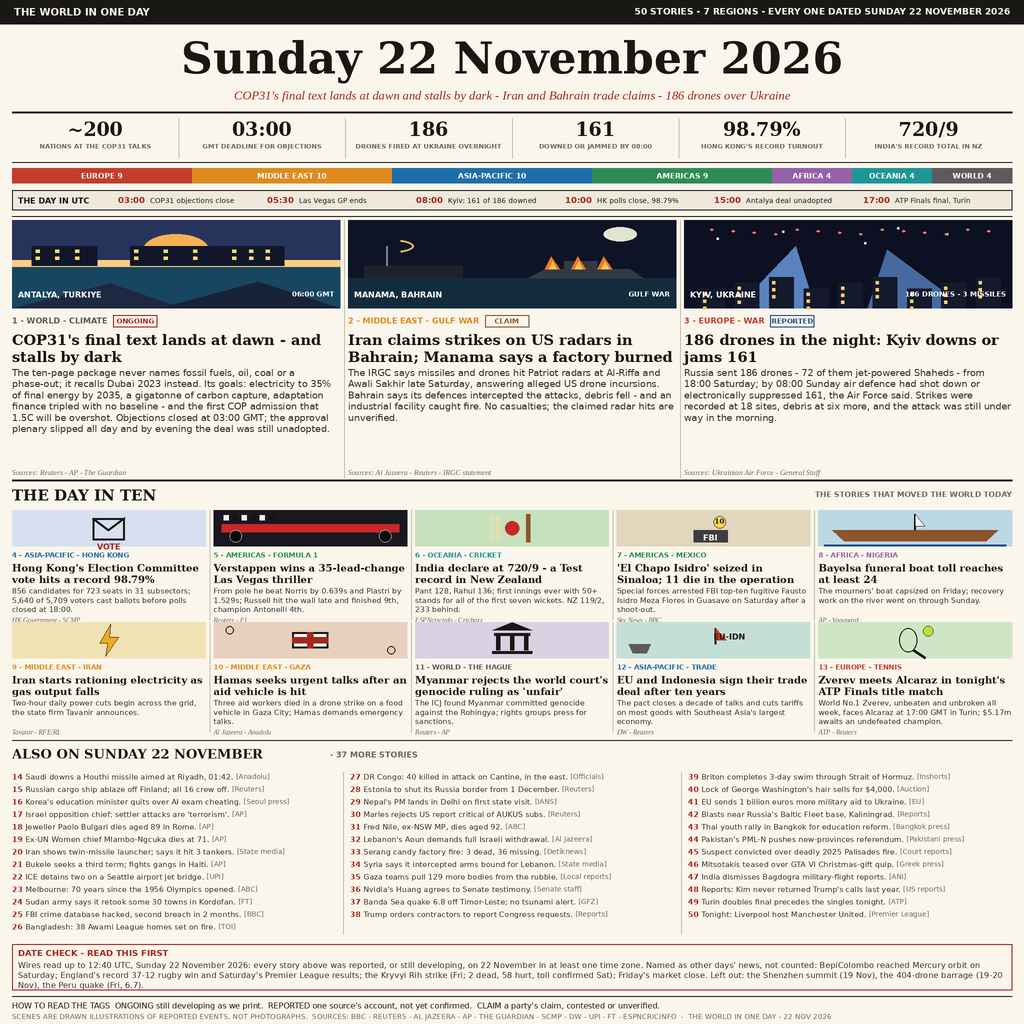
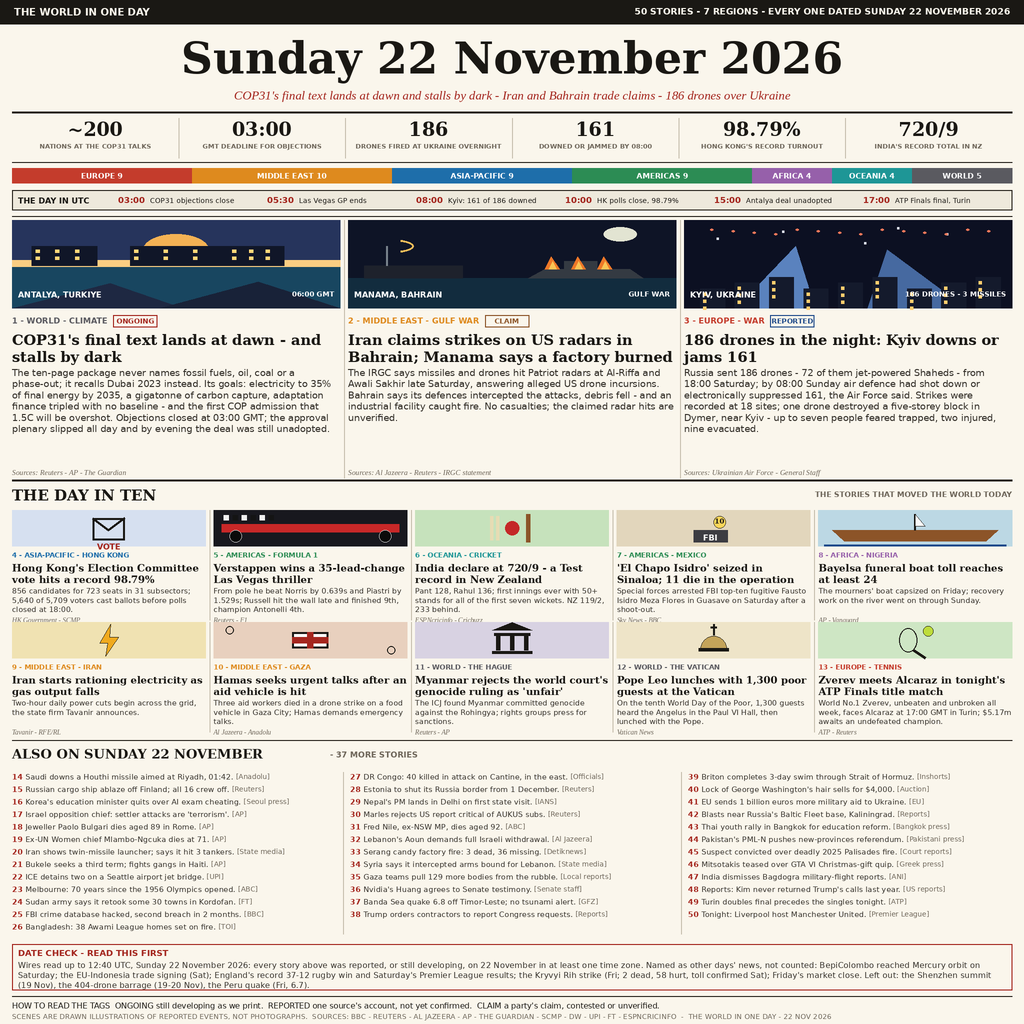
v3: Pope Leo card replaces EU-Indonesia (Sat signing, now in date check); Dymer detail in Kyiv hero

diff --git a/main.py b/main.py
@@ -105,8 +105,9 @@ HEROES = [
          body=("Russia sent 186 drones - 72 of them jet-powered Shaheds - from "
                "18:00 Saturday; by 08:00 Sunday air defence had shot down or "
                "electronically suppressed 161, the Air Force said. Strikes were "
-               "recorded at 18 sites, debris at six more, and the attack was "
-               "still under way in the morning."),
+               "recorded at 18 sites; one drone destroyed a five-storey block in "
+               "Dymer, near Kyiv - up to seven people feared trapped, two "
+               "injured, nine evacuated."),
          src="Sources: Ukrainian Air Force - General Staff", art="kyiv"),
 ]
 
@@ -143,10 +144,10 @@ CARDS = [
          head="Myanmar rejects the world court's genocide ruling as 'unfair'",
          body="The ICJ found Myanmar committed genocide against the Rohingya; rights groups press for sanctions.",
          src="Reuters - AP"),
-    dict(n=12, region="ASIA-PACIFIC", topic="TRADE", art="trade",
-         head="EU and Indonesia sign their trade deal after ten years",
-         body="The pact closes a decade of talks and cuts tariffs on most goods with Southeast Asia's largest economy.",
-         src="DW - Reuters"),
+    dict(n=12, region="WORLD", topic="THE VATICAN", art="vatican",
+         head="Pope Leo lunches with 1,300 poor guests at the Vatican",
+         body="On the tenth World Day of the Poor, 1,300 guests heard the Angelus in the Paul VI Hall, then lunched with the Pope.",
+         src="Vatican News"),
     dict(n=13, region="EUROPE", topic="TENNIS", art="tennis",
          head="Zverev meets Alcaraz in tonight's ATP Finals title match",
          body="World No.1 Zverev, unbeaten and unbroken all week, faces Alcaraz at 17:00 GMT in Turin; $5.17m awaits an undefeated champion.",
@@ -211,12 +212,13 @@ TIMELINE = [
     ("17:00", "ATP Finals final, Turin"),
 ]
 
-REGIONS = [("EUROPE", 9), ("MIDDLE EAST", 10), ("ASIA-PACIFIC", 10),
-           ("AMERICAS", 9), ("AFRICA", 4), ("OCEANIA", 4), ("WORLD", 4)]
+REGIONS = [("EUROPE", 9), ("MIDDLE EAST", 10), ("ASIA-PACIFIC", 9),
+           ("AMERICAS", 9), ("AFRICA", 4), ("OCEANIA", 4), ("WORLD", 5)]
 
 DATECHECK = ("Wires read up to 12:40 UTC, Sunday 22 November 2026: every story above was reported, or still "
              "developing, on 22 November in at least one time zone. Named as other days' news, not counted: "
-             "BepiColombo reached Mercury orbit on Saturday; England's record 37-12 rugby win and Saturday's "
+             "BepiColombo reached Mercury orbit on Saturday; the EU-Indonesia trade signing (Sat); England's "
+             "record 37-12 rugby win and Saturday's "
              "Premier League results; the Kryvyi Rih strike (Fri; 2 dead, 58 hurt, toll confirmed Sat); Friday's "
              "market close. Left out: the Shenzhen summit (19 Nov), the 404-drone barrage (19-20 Nov), the Peru "
              "quake (Fri, 6.7).")
@@ -275,7 +277,7 @@ CARD_ICON_BG = {
     "vote": (214, 224, 240), "f1": (24, 24, 30), "cricket": (198, 226, 188),
     "mexico": (226, 214, 188), "boat": (188, 216, 228), "power": (240, 226, 178),
     "gaza": (232, 208, 190), "court": (216, 210, 226), "trade": (196, 224, 214),
-    "tennis": (206, 230, 196),
+    "tennis": (206, 230, 196), "vatican": (238, 228, 200),
 }
 
 
@@ -327,6 +329,11 @@ def card_art(d, kind, x, y, w, h):
         line(d, cx + 2, cy + 4, cx + 2, cy - 12, fill=INK, width=2)
         poly(d, [(cx + 2, cy - 12), (cx + 2, cy), (cx + 13, cy)], fill=(200, 60, 50))
         text(d, cx + 16, cy - 8, "EU-IDN", F(SANS_B, 8), fill=INK, anchor="ma")
+    elif kind == "vatican":
+        d.pieslice([(cx - 13) * S, (cy - 4) * S, (cx + 13) * S, (cy + 22) * S], 180, 360, fill=(196, 164, 90), outline=INK)
+        rect(d, cx - 15, cy + 8, 30, 3, fill=INK)
+        line(d, cx, cy - 16, cx, cy - 5, fill=INK, width=2)
+        line(d, cx - 3, cy - 13, cx + 3, cy - 13, fill=INK, width=2)
     elif kind == "tennis":
         d.ellipse([(cx - 16) * S, (cy - 12) * S, (cx + 2) * S, (cy + 12) * S], outline=INK, width=2)
         line(d, cx - 2, cy + 10, cx + 10, cy + 18, fill=INK, width=3)
